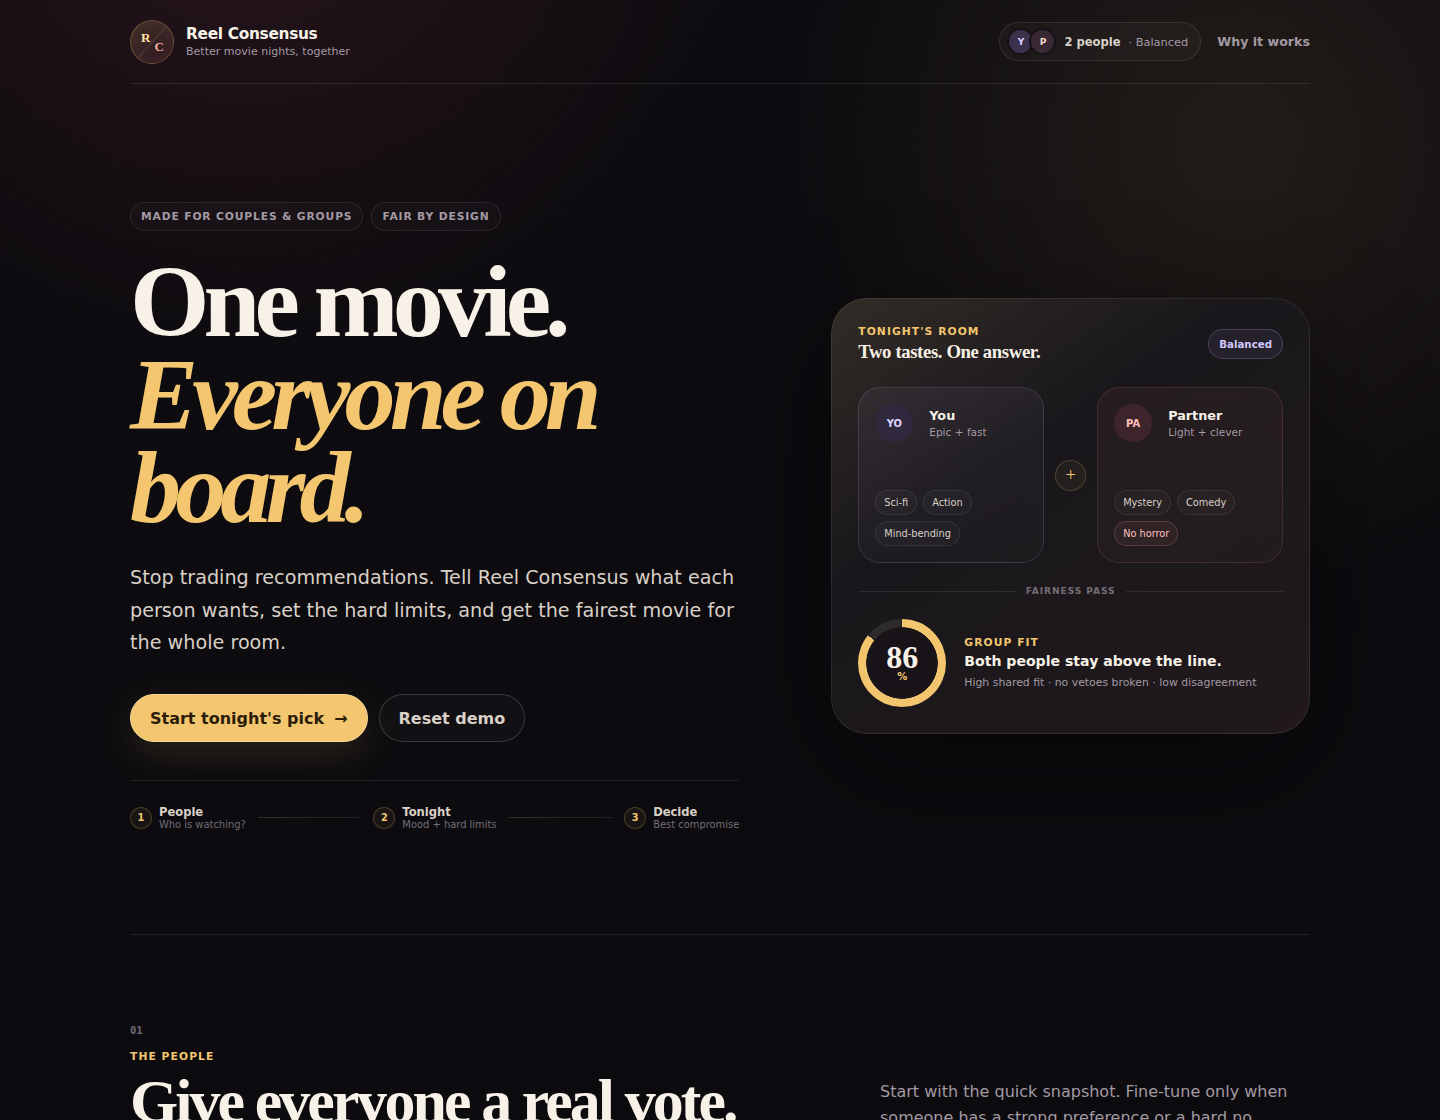
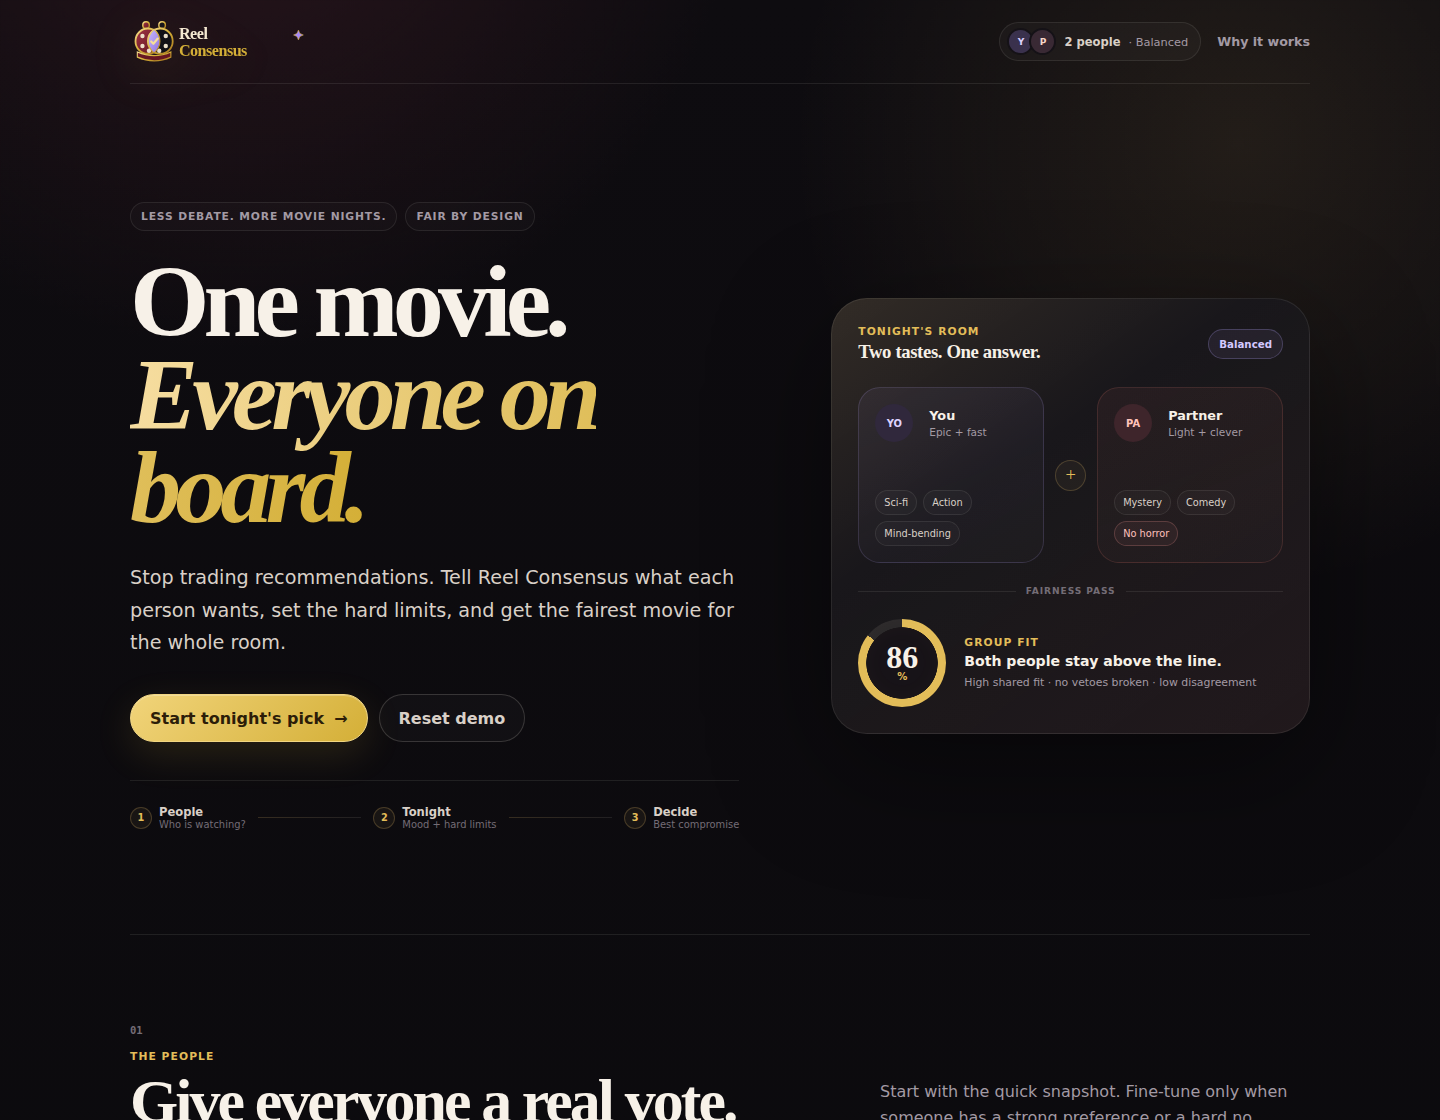
Add Reel Consensus production branding
Add a production-ready SVG identity, favicon, brand guide, branded header/footer, refined color tokens, CTA polish, and an updated README screenshot.

diff --git a/src/styles.css b/src/styles.css
@@ -17,12 +17,18 @@
   --border: rgba(247, 241, 232, 0.09);
   --border-strong: rgba(247, 241, 232, 0.17);
 
-  --gold: #f3c66f;
-  --gold-soft: #ffe1a6;
+  --brand-burgundy: #7a1f2b;
+  --brand-black: #0b0b0b;
+  --brand-gold: #d4af37;
+  --brand-cream: #f4e8d1;
+  --brand-lavender: #a78bfa;
+
+  --gold: #e3bd59;
+  --gold-soft: #f6dda0;
   --gold-ink: #2c1d08;
-  --rose: #ee7b70;
-  --wine: #7f3143;
-  --lavender: #b8a6ff;
+  --rose: #ee8178;
+  --wine: var(--brand-burgundy);
+  --lavender: var(--brand-lavender);
   --sage: #9fd4b2;
   --danger: #ff9b96;
 
@@ -153,45 +159,13 @@ a {
   border-radius: 14px;
 }
 
-.brand-mark {
-  width: 44px;
-  height: 44px;
-  position: relative;
-  display: grid;
-  place-items: center;
-  border: 1px solid rgba(243, 198, 111, 0.26);
-  border-radius: 50%;
-  background: linear-gradient(145deg, rgba(243, 198, 111, 0.16), rgba(127, 49, 67, 0.22));
-  box-shadow: inset 0 0 0 6px rgba(255, 255, 255, 0.015);
-  overflow: hidden;
-}
-
-.brand-mark span {
-  position: absolute;
-  font-family: var(--display);
-  font-size: 0.82rem;
-  font-weight: 800;
-}
-
-.brand-mark span:first-child {
-  left: 10px;
-  top: 9px;
-  color: var(--gold-soft);
-}
-
-.brand-mark span:last-child {
-  right: 9px;
-  bottom: 8px;
-  color: #f0aca3;
-}
-
-.brand-mark::after {
-  content: "";
-  position: absolute;
-  width: 1px;
-  height: 48px;
-  transform: rotate(42deg);
-  background: rgba(255, 255, 255, 0.12);
+.brand-lockup {
+  width: 188px;
+  height: 54px;
+  display: block;
+  object-fit: contain;
+  object-position: left center;
+  filter: drop-shadow(0 10px 24px rgba(212, 175, 55, 0.1));
 }
 
 .brand > span:last-child {
@@ -313,6 +287,10 @@ a {
 .hero h1 em {
   color: var(--gold);
   font-weight: 600;
+  background: linear-gradient(90deg, var(--gold-soft), var(--brand-gold));
+  -webkit-background-clip: text;
+  background-clip: text;
+  -webkit-text-fill-color: transparent;
 }
 
 .hero-copy > p {
@@ -351,16 +329,20 @@ a {
 }
 
 .primary-button {
-  border: 1px solid #f6d896;
-  background: var(--gold);
+  border: 1px solid #f1d682;
+  background: linear-gradient(135deg, #f1d47a 0%, var(--brand-gold) 100%);
   color: var(--gold-ink);
-  box-shadow: 0 12px 38px rgba(243, 198, 111, 0.13);
+  box-shadow:
+    0 12px 38px rgba(212, 175, 55, 0.14),
+    inset 0 1px 0 rgba(255, 255, 255, 0.28);
 }
 
 .primary-button:hover {
   transform: translateY(-2px);
-  background: #f8d384;
-  box-shadow: 0 17px 42px rgba(243, 198, 111, 0.19);
+  background: linear-gradient(135deg, #f5dc8c 0%, #dfba49 100%);
+  box-shadow:
+    0 17px 42px rgba(212, 175, 55, 0.2),
+    inset 0 1px 0 rgba(255, 255, 255, 0.3);
 }
 
 .primary-button--large {
@@ -1776,6 +1758,28 @@ a {
   color: var(--text-soft);
 }
 
+.footer-brand {
+  display: flex;
+  align-items: center;
+  gap: 10px;
+}
+
+.footer-brand img {
+  width: 35px;
+  height: 35px;
+  object-fit: contain;
+}
+
+.footer-brand p {
+  display: grid;
+  gap: 2px;
+}
+
+.footer-brand span {
+  color: var(--muted-dim);
+  font-size: 0.65rem;
+}
+
 @media (max-width: 1020px) {
   .decision-dock {
     position: static;
@@ -1917,8 +1921,9 @@ a {
 }
 
 @media (max-width: 560px) {
-  .brand small {
-    display: none;
+  .brand-lockup {
+    width: 154px;
+    height: 46px;
   }
 
   .room-pill {

diff --git a/src/App.tsx b/src/App.tsx
@@ -138,14 +138,11 @@ export default function App() {
 
       <header className="site-header">
         <a className="brand" href="#top" aria-label="Reel Consensus home">
-          <span className="brand-mark" aria-hidden="true">
-            <span>R</span>
-            <span>C</span>
-          </span>
-          <span>
-            <strong>Reel Consensus</strong>
-            <small>Better movie nights, together</small>
-          </span>
+          <img
+            className="brand-lockup"
+            src="/brand/reel-consensus-lockup.svg"
+            alt="Reel Consensus"
+          />
         </a>
 
         <div className="header-actions">
@@ -170,7 +167,7 @@ export default function App() {
         <section className="hero page-width">
           <div className="hero-copy">
             <div className="hero-kicker">
-              <span>Made for couples & groups</span>
+              <span>Less debate. More movie nights.</span>
               <span>Fair by design</span>
             </div>
             <h1>
@@ -497,9 +494,17 @@ export default function App() {
       </main>
 
       <footer className="site-footer page-width">
-        <p>
-          <strong>Reel Consensus</strong> · Less scrolling. Better movie nights.
-        </p>
+        <div className="footer-brand">
+          <img
+            src="/brand/reel-consensus-mark.svg"
+            alt=""
+            aria-hidden="true"
+          />
+          <p>
+            <strong>Reel Consensus</strong>
+            <span>Less debate. More movie nights.</span>
+          </p>
+        </div>
         <p>Built for agreement, not endless recommendations.</p>
       </footer>
     </div>

diff --git a/index.html b/index.html
@@ -3,11 +3,12 @@
   <head>
     <meta charset="UTF-8" />
     <meta name="viewport" content="width=device-width, initial-scale=1.0" />
-    <meta name="theme-color" content="#090b12" />
+    <meta name="theme-color" content="#0b0b0b" />
+    <link rel="icon" type="image/svg+xml" href="/brand/reel-consensus-mark.svg" />
     <meta name="description" content="Reel Consensus helps groups agree on what to watch using fair, explainable recommendations." />
-    <meta property="og:title" content="Reel Consensus — Stop scrolling. Start watching." />
+    <meta property="og:title" content="Reel Consensus — Less debate. More movie nights." />
     <meta property="og:description" content="A group movie decision engine with explainable ranking and optional AI intent parsing." />
-    <title>Reel Consensus — Group Movie Decisions</title>
+    <title>Reel Consensus — Less debate. More movie nights.</title>
   </head>
   <body>
     <div id="root"></div>

diff --git a/docs/branding/BRAND.md b/docs/branding/BRAND.md
@@ -1,0 +1,106 @@
+# Reel Consensus brand system
+
+## Brand idea
+
+**Reel Consensus turns different tastes into one movie everyone can get behind.**
+
+The identity is built around three ideas:
+
+1. **Cinema** — film reels, editorial typography, warm theatre tones.
+2. **People** — two overlapping reel/person forms represent different tastes in the same room.
+3. **Consensus** — the shared overlap and check mark represent a fair decision, not a majority steamroll.
+
+## Primary positioning
+
+**Less debate. More movie nights.**
+
+Supporting product line:
+
+> One movie. Everyone on board.
+
+## Brand attributes
+
+- **Cinematic** — feels connected to movie night, not generic SaaS.
+- **Warm** — made for couples, friends and families.
+- **Fair** — every person has a visible voice.
+- **Premium** — thoughtful editorial presentation without becoming ornate.
+- **Clear** — product UI stays simple even when the brand has personality.
+
+## Core palette
+
+| Token | Hex | Role |
+| --- | --- | --- |
+| Cinematic Burgundy | `#7A1F2B` | identity, warm emphasis, selected states |
+| Midnight Black | `#0B0B0B` | deep background |
+| Consensus Gold | `#D4AF37` | primary action, score, premium accents |
+| Warm Cream | `#F4E8D1` | headlines and high-contrast text |
+| Harmony Lavender | `#A78BFA` | AI assist, harmony, secondary consensus cue |
+
+The UI uses softer derived values where needed for accessible contrast.
+
+## Typography
+
+### Display
+Use an elegant editorial serif for hero headlines and high-emotion moments.
+
+Current implementation intentionally uses a system serif stack for reliability:
+
+```css
+"Iowan Old Style", "Palatino Linotype", "Book Antiqua", Palatino, Georgia, serif
+```
+
+A self-hosted Playfair Display can replace it later without changing the design system.
+
+### Interface
+Use the system sans-serif stack for controls, labels, chips, forms and explanatory copy.
+
+## Logo assets
+
+- `public/brand/reel-consensus-mark.svg` — compact product mark.
+- `public/brand/reel-consensus-lockup.svg` — full horizontal identity.
+
+The compact mark is preferred for favicon, mobile header, app icon, loading state and small social/avatar usage.
+
+The lockup is preferred for marketing surfaces, README, wide headers and Open Graph artwork.
+
+## UI mapping
+
+### Header
+Use the compact mark plus an accessible text wordmark. Do not shrink the full lockup until the lettering becomes unreadable.
+
+### Hero
+Keep the hero editorial and emotionally warm. Gold is reserved for the promise and primary action, while burgundy supplies atmosphere.
+
+### Consensus score
+The score ring is the strongest place to use gold + lavender together: gold communicates the decision, lavender communicates harmony/assist.
+
+### Participant states
+Do not give every participant a brand color. Participant colors are temporary identity cues; the brand palette should remain dominant.
+
+### Hard vetoes
+Vetoes use a warmer red derived from burgundy. Never use gold for destructive or blocking meaning.
+
+### Primary CTA
+Gold on a dark surface remains the highest-priority action treatment.
+
+## Usage rules
+
+### Do
+- keep generous dark negative space;
+- let cream typography carry hierarchy;
+- use gold sparingly for decisions and actions;
+- keep the logo readable at small sizes;
+- use the mark as a recognizable product signature.
+
+### Avoid
+- gold borders around every component;
+- full-page glossy gradients;
+- turning every icon into cinema decoration;
+- using burgundy for errors and normal selections at the same time;
+- placing the detailed reference logo at tiny sizes.
+
+## Product design principle
+
+Brand personality should be strongest at the **entry**, **decision**, and **celebration** moments.
+
+The configuration UI in between should stay restrained, fast and understandable.

diff --git a/README.md b/README.md
@@ -11,6 +11,14 @@ Reel Consensus is a group movie decision engine. Instead of recommending what on
 
 ![Reel Consensus desktop group movie decision engine](docs/screenshots/reel-consensus-desktop.png)
 
+## Brand identity
+
+![Reel Consensus logo](public/brand/reel-consensus-lockup.svg)
+
+**Less debate. More movie nights.**
+
+The visual identity combines two overlapping film reels / people with a shared check-mark center: different tastes moving toward one fair decision. Production assets live in `public/brand/`; the full usage system is documented in [docs/branding/BRAND.md](docs/branding/BRAND.md).
+
 ## Product thesis
 
 Movie night is rarely an information problem. People already have too many options. The hard part is reaching a decision when tastes, moods, time limits, and hard dislikes conflict.
